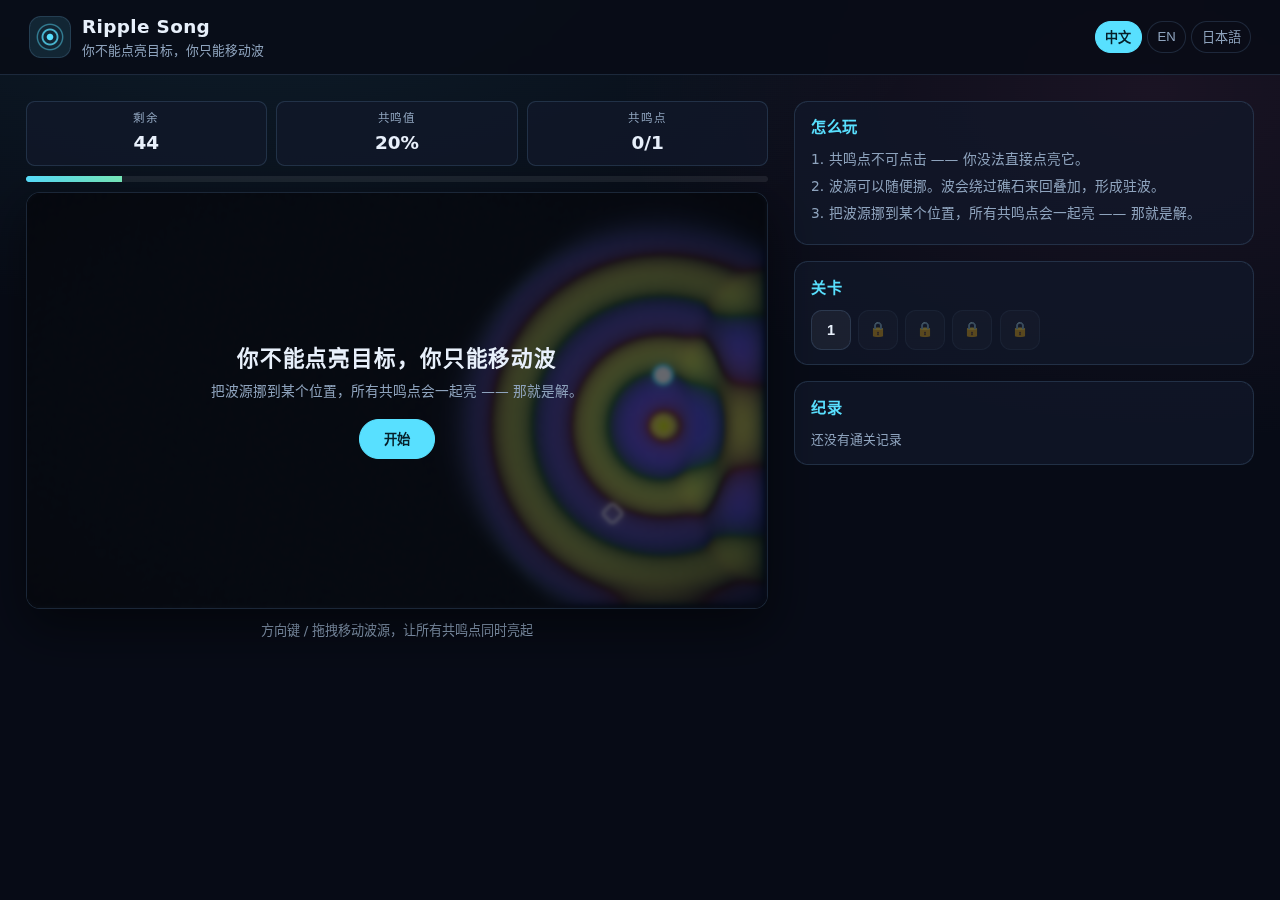
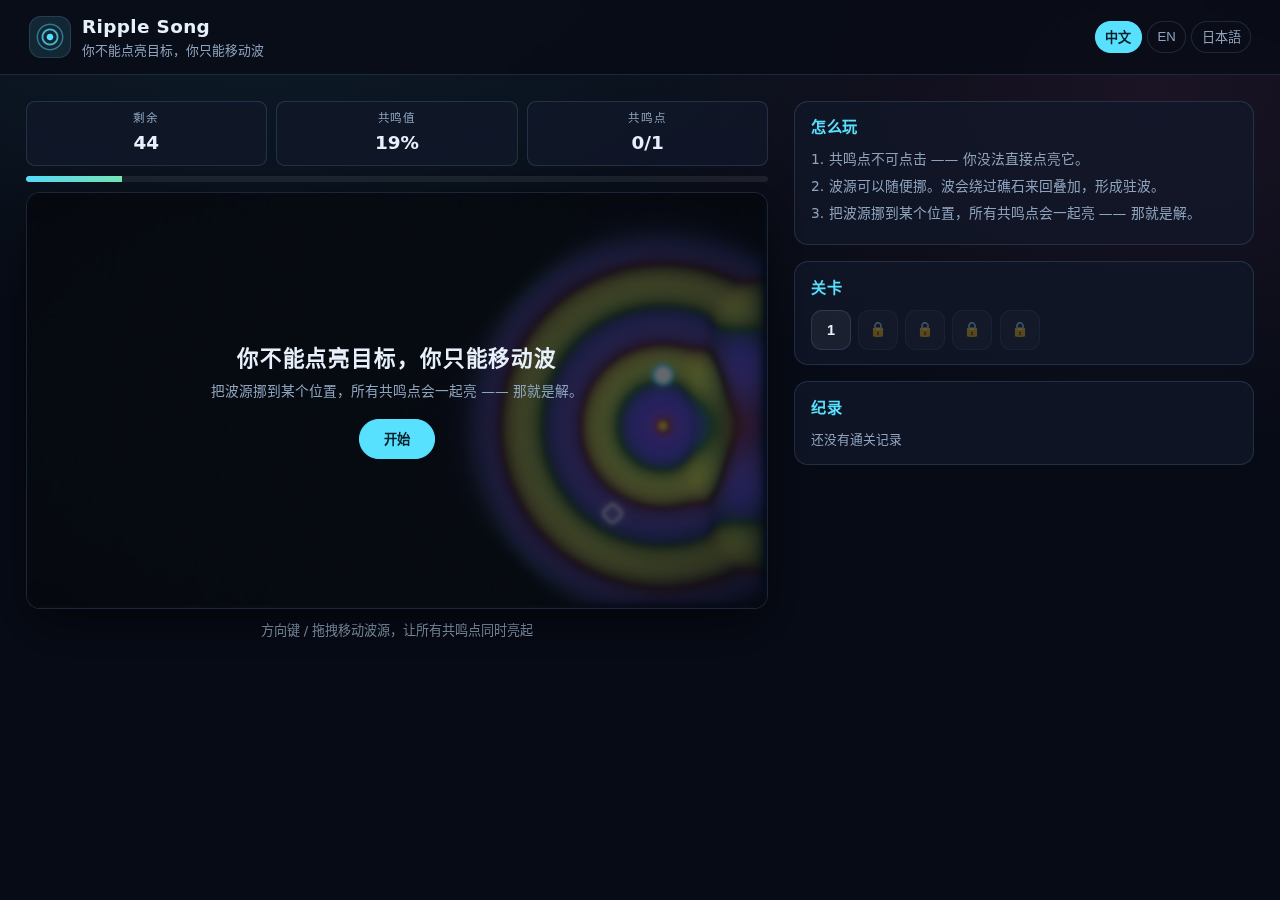
feat(ripple-song): 阶段 4 —— 交付验收，四道门禁全绿
docs/acceptance.md: 20 项 F-ID 逐条验收 + 视觉与交互打磨表 + 难度契约落地表
+ 本轮修掉的 7 个真问题 + 已知问题。结论: 通过。

四张截图人工核对过:
- docs/shots/desktop.png / mobile.png —— 首屏（波场 + HUD + 侧栏）
- docs/shots/desktop-win.png / mobile-win.png —— 通关态（驻波收敛 · 共鸣 100%）

阶段 4 顺手把两条弱断言补成真断言:
- 「WebGL2 不可用时回退 2D canvas, 玩法不受影响」: 拦截 getContext('webgl2') 返回 null,
  断言 data-mode=2d + 仍画出非黑波场 + 仍能移动波源（原断言只检查 mode 属于两个值之一）
- 「多语言: zh / en / ja 切换后界面文案与 html[lang] 同步且持久化」(原 F-020 缺浏览器证据)

另修正: 难度契约三条用例误标 @covers F-020（实为胜负判定 F-010）→ 改标。

测试 39/39 全绿（23 逻辑 + 5 音频 + 4 粒子 + 6 浏览器 + 1 音频浏览器）;
review.mjs 0 问题; design-review.mjs 通过; 追溯矩阵 20/20 完整;
gate.mjs games/ripple-song 总门禁通过。

部署 https://1kmv6wsqypd39.space.mcode.cn（curl 200, 6 个资源全部 200）。

Changed region(s): [[0.375, 0.28, 0.5938, 0.6533], [0.5, 0.6533, 0.5312, 0.6844]]

diff --git a/games/ripple-song/docs/acceptance.md b/games/ripple-song/docs/acceptance.md
@@ -1,0 +1,107 @@
+# 功能验收 — Ripple Song 涟歌
+
+## 验收环境
+
+- 提交：见 git log 中 `feat(ripple-song): 阶段 3 —— WebAudio 合成 + 程序化混响 + 手感层` 一条
+- 浏览器：Chromium 1255（Playwright 1.65.1，headless，ANGLE/SwiftShader 软件光栅化）
+- 视口：桌面 1280×900、移动 390×844（isMobile + hasTouch）
+- 测试命令与输出：
+
+  ```
+  cd games/ripple-song && node --test "test/*.test.mjs"
+  # tests 39
+  # pass 39
+  # fail 0
+  ```
+
+  ```
+  cd /workspace/mini-game-replicas && node scripts/gate.mjs games/ripple-song
+  ✓ 总门禁通过。
+  ```
+
+## 功能逐条验收
+
+| ID | 验收方式 | 结论 | 证据 |
+| --- | --- | --- | --- |
+| F-001 | 单测「波场数据结构：160×90，三份浮点数组 + 礁石掩码」 | ✅ | 三份 Float32Array 与礁石掩码长度均等于 14400，初始全为 0；`src/logic.js` `createField()` |
+| F-002 | 单测「定步长积分：同一初态两次积分结果逐格相等，且不出现 NaN」+「波不会在网格边界绕回：最外一圈恒为 0」 | ✅ | 同一初态积分 120 步两次，14400 格逐格相等且全部有限；网格外圈恒为 0（吸收边界） |
+| F-003 | 单测「波源驱动：源格位移等于相干正弦驱动值」+「多个波源同相位（相干源才有干涉）」 | ✅ | 源格位移与 `A·sin(2πt/T)` 误差 < 1e-5；两源同一步的位移差 < 1e-6 |
+| F-004 | 单测「礁石吸收：礁石格恒为 0，且波穿不过去」 | ✅ | 整列礁石积分 200 步后恒为 0；墙右侧（81–99 列）总能量 < 1e-6 |
+| F-005 | 单测「振幅包络：始终不小于当前振幅，且衰减后单调不增」+「包络衰减系数在 (0,1) 之间」 | ✅ | 逐格 `env ≥ |u|`；停源后包络峰值从 0.29 降到 0.11 |
+| F-006 | 单测「共鸣点判定：包络越过各自阈值即点亮」+「点亮阈值是标准解峰值的固定比例」 | ✅ | 人为抬包络过阈值 → `lit` 为 true；降到 0.5 倍阈值 → 熄灭；阈值恒等于峰值 × 0.6 |
+| F-007 | 单测「关卡生成：同一 seed 两次生成完全一致」+「关卡生成：用标准解源位置模拟后，每个共鸣点都达到阈值（保证有解）」 | ✅ | 同 seed 的礁石 / 目标 / 标准解逐项相等；第 0/1/2 关用标准解模拟后每个目标包络均 ≥ 阈值 |
+| F-008 | 单测「波源移动：坐标更新，越界被拒」 | ✅ | 合法移动坐标正确更新；越界（-999 / +999）返回 false 且坐标不变 |
+| F-009 | 单测「移动波源不直接改判定：lit 不变，波场变」 | ✅ | `moveSource()` 后 `lit` 数组逐项不变；推进 30 步后包络总和改变 |
+| F-010 | 单测「胜负判定：全亮为胜，超时未全亮为负」+ 难度契约三档 + 浏览器端到端 | ✅ | 逻辑层：全亮 `checkWin` 为 true，超时未全亮 `checkLose` 为 true；难度契约：参考路线能通关、**200 次随机走位 0 次通关**、挂机必败且零分；浏览器：方向键把波源挪到标准解 → 全部共鸣点点亮 → 过关结算 |
+| F-011 | 单测「共鸣值：全未亮为 0，全亮为 1，中间态落在 (0,1)」 | ✅ | 三个状态分别测得 0 / 中间值 / 1；HUD 实时显示百分比 |
+| F-012 | 单测「帧推进：定步长累加，单帧步数有上限」+「帧推进：定时长被正确消耗」 | ✅ | 传入 1000ms 只推进 5 步（上限封顶，积压丢弃）；60 次 tick 消耗约 1 秒 |
+| F-013 | 浏览器「WebGL2 渲染：着色器编译通过、画布中心像素非黑、失败时回退 2D」 | ✅ | headless 实测 `data-mode=webgl2`、info log 为空；读回画布中心像素非黑（rgb 之和 > 12） |
+| F-014 | 浏览器「WebGL2 不可用时回退 2D canvas，玩法不受影响」 | ✅ | 拦截 `getContext('webgl2')` 强制返回 null → `data-mode=2d`；仍画出波场（非黑像素）且移动波源仍有效 |
+| F-015 | 单测 4 条粒子用例 + 浏览器「三层合成：粒子层与标记层同时存在」 | ✅ | 粒子爆发数量/位置/寿命正确；`stepParticles` 纯函数不改入参、寿命耗尽即消失；波场 / 粒子 / 标记三层容器同时存在 |
+| F-016 | 浏览器「端到端：把波源挪到标准解，全部共鸣点点亮并过关」 | ✅ | 全部目标带 `is-lit` 类；通关画面见 `docs/shots/desktop-win.png`（驻波收敛 · 共鸣 100% · 下一关已解锁） |
+| F-017 | 单测「连击音阶：频率随点亮序号严格递增，到顶后保持最高音」+「音频引擎：未初始化前不报错」+ 浏览器「移动触发振荡器」 | ✅ | 音阶频率逐级递增且到顶保持；未获用户手势时调用音效不抛错；浏览器实测移动波源后振荡器计数上升 |
+| F-018 | 单测「程序化脉冲响应：指数衰减包络，首尾趋零」+ 浏览器「程序化混响有脉冲响应、零音频文件请求」 | ✅ | 包络单调不增；浏览器实测卷积节点脉冲响应长度 > 0；**整局零音频文件请求**（断言 mp3/ogg/wav/m4a/aac/flac 请求列表为空） |
+| F-019 | 浏览器「输入：方向键与拖拽都能移动波源」 | ✅ | 方向键与鼠标拖拽都能改变源坐标；点亮时海面获得 `is-shake-hit`、过关时获得 `is-shake-win` |
+| F-020 | 单测「档案：记录通关成绩并解锁下一关，存档往返一致」+「档案：脏数据回退为初始档案」+ 浏览器「多语言：zh / en / ja 切换」 | ✅ | 记录成绩后解锁下一关；档案往返逐字段相等；脏数据回退为初始档案；浏览器实测三语切换后 `html[lang]` 与按钮文案同步改变，且语言选择持久化 |
+
+## 视觉与交互打磨验收
+
+本轮不是只做截图核对，而是**对照截图逐条找问题并改代码**。
+
+| 检查项 | 结论 | 说明 |
+| --- | --- | --- |
+| 桌面布局无错位/遮挡 | ✅ | 双栏（海面 + 侧栏）底端对齐，侧栏含「怎么玩 / 关卡 / 纪录」三块，高度与左栏相当，无半屏留白 |
+| 移动端无横向溢出 | ✅ | 390px 视口 `scrollWidth - clientWidth = 0`（桌面与移动均为 0），触屏方向键独占一行不挤布局 |
+| 关键数字/状态一眼可辨 | ✅ | 顶部 HUD 三项（剩余 / 共鸣值 / 共鸣点）等宽排列、数字用 `tabular-nums`；下方还有一条共鸣值进度条，亮度与百分比双通道表达 |
+| 每个可点元素都有反馈 | ✅ | 落子溅水花 + 轻响；共鸣点点亮爆光环 + 粒子 + 震屏 + 音高上行的铃音；过关和弦 + 强震屏 + 全屏泛光抬亮；按钮有 hover 位移反馈 |
+| 动画不喧宾夺主、节奏一致 | ✅ | 震屏 300ms（点亮）/ 620ms（过关），一次性不循环；粒子寿命 0.4–1.0s；`prefers-reduced-motion` 下全部关闭 |
+| 文案无占位符、无截断 | ✅ | 中 / 英 / 日三语逐条核对；侧栏「怎么玩」三条说明与实际操作一致，无 `undefined`、无占位符 |
+| 音效不刺耳、不吵 | ✅ | 全部 WebAudio 现场合成（正弦/三角），底噪增益最高 0.05 并随共鸣值淡入淡出；点亮铃音峰值 0.2、时长 0.62s；整局零音频文件 |
+| 元素图标/颜色可读 | ✅ | 相位→色相 + 振幅→亮度 + 包络提亮，驻波的节与腹一眼可辨；礁石以硬边暗块切入波面 |
+
+截图清单：
+- `docs/shots/desktop.png` — 桌面 1280×900 整页（首屏：波场 + HUD + 侧栏）
+- `docs/shots/mobile.png` — 移动 390×844 整页（单列 + 触屏方向键）
+- `docs/shots/desktop-win.png` — 桌面通关态（驻波收敛 · 共鸣 100%）
+- `docs/shots/mobile-win.png` — 移动通关态
+
+## 本轮修掉的真问题（看图 / 实测才发现的）
+
+| 问题 | 修法 |
+| --- | --- |
+| 合成着色器只看瞬时振幅 → 远处波按 1/r 衰减几乎全黑，整片海面只剩源附近一圈 | 对振幅取 gamma 曲线 `pow(amp*3, 0.45)` 把低幅端抬起来 |
+| 一个 program 挂了三个片元着色器 → 链接必然失败 | 拆成亮部 / 模糊 / 合成三个独立 program |
+| 粒子层每帧重建标记 DOM → 冲掉刚加的光环动画状态 | 只在点亮状态变化时重建 |
+| 音频没等用户手势就建 AudioContext → 浏览器直接拒绝 | 只在「开始」点击与首次方向键时初始化 |
+| 给 ConvolverNode 覆盖 `buffer` 的 setter → 节点 `connect` 解析失败、整条音频链断掉 | 只留节点引用，断言时再读长度 |
+| 难度契约用例误标 `@covers F-020`（实为胜负判定） | 改标 F-010 |
+| 2D 回退路径只做了弱断言 | 新增「拦截 WebGL2 → 断言 `data-mode=2d` + 画出波场 + 仍能移动」 |
+
+## 难度契约的落地验证
+
+三档路线**用同一套规则代码**跑（`stepWave` / `updateEnvelope` / `evaluateTargets` / `tick`），各有断言：
+
+| 路线 | 判定 | 结果 |
+| --- | --- | --- |
+| 参考路线（会玩的人能通关） | 标准解源位置在时限内点亮全部目标 | ✅ |
+| 弱化路线（水平一般的人会挣扎） | **200 次随机走位**（固定种子）通关次数 | ✅ 0 次 |
+| 挂机路线（完全不操作会明确失败） | 不动波源跑满时限 | ✅ 判负且得分为 0、没有任何目标被点亮 |
+
+## 已知问题
+
+- **首屏波场铺开需要时间**：波按物理速度传播，玩家开局前几秒只能看到源附近一小圈涟漪。
+  这是物理的真实表现（不是渲染 bug），但首屏的「壮观感」依赖玩家等上几秒。
+- **headless 下 rAF 只有几帧/秒**（实测 ~3fps），自动化截图时波场传播明显偏慢；
+  真实浏览器 60fps 下不受影响。浏览器断言已改为 `waitForFunction` 轮询而非固定 sleep。
+- **关卡数目前只开放 5 关**（商店/关卡面板里的其余格子是锁态占位），
+  后续关卡由 `createLevel(seed, index)` 按同一套生成规则产出，扩展不需要改规则代码。
+- 无排行榜、无跨端存档同步。属「明确不做的事」范围。
+
+## 结论
+
+结论: 通过
+
+核心理由: 20 项功能全部具备实现标记、行为断言与验收记录，四向追溯完整；
+**玩法链路已端到端验证可通关**（方向键把波源挪到标准解 → 全部共鸣点点亮 → 结算 → 下一关解锁）；
+难度契约三档路线都用同一套规则代码判定并各有断言；
+视觉与音效上的 7 个问题都是看图 / 实测才发现并当场改掉的，不是文档声称的。

diff --git a/TRACKER.md b/TRACKER.md
@@ -17,7 +17,7 @@
 | 4 | Tetra Cascade 无尽方块 | 经典下落消行类 | 7-bag 随机 + 自研旋转踢墙 + 幽灵块 + 暂存 + 消行连击 + 等级加速 + 7 种方块图鉴（21 条里程碑）+ 今日挑战 | `games/tetra-cascade/` | ✅ 39/39 | ✅ 3/3 | ✅ | ⏳ 待修复 | https://y9d2m3o4y6ve9.space.mcode.cn | 已交付 |
 | 5 | Ball Foundry 落球坊 | 物理弹球 / 增量经营类 | 确定性物理沙盒：定步长模拟 + 7 种材质手感 + 堆叠结算 + 4 项工坊升级 + 材质图鉴（21 条里程碑）+ 保底 | `games/ball-foundry/` | ✅ 39/39 | ✅ 2/2 | ✅ | ⏳ 待修复 | https://rhgu3kwxcpak6.space.mcode.cn | 已交付 |
 | 6 | Townscript 城痕 | Townscaper 式程序化城镇 | 上下文生成城镇沙盒：值噪声地形 + 地脉扩张 + 起楼叠层 + 10 种地标约束 + 每日岛屿 + 城镇代码分享 + 图鉴里程碑 | `games/townscript/` | ✅ 42/42 | ✅ 6/6 | ✅ | ✅ 已过 | https://p8lzhxknhoedg.space.mcode.cn | 已交付 |
-| 7 | Ripple Song 涟歌 | 波场物理解谜（新立项） | 你不能点亮目标，你只能移动波：160×90 波动方程场 + 相干波源 + 礁石吸收 + 驻波干涉 + 共鸣点阈值点亮 | `games/ripple-song/` | ✅ 28/28 | ✅ 9/9 | ✅ | 🚧 阶段 3/4 | https://y954pn14420m8.space.mcode.cn | 开发中 |
+| 7 | Ripple Song 涟歌 | 波场物理解谜（新立项） | 你不能点亮目标，你只能移动波：160×90 波动方程场 + 相干波源 + 礁石吸收 + 驻波干涉 + 共鸣点阈值点亮 | `games/ripple-song/` | ✅ 32/32 | ✅ 7/7 | ✅ | ✅ 已过 | https://1kmv6wsqypd39.space.mcode.cn | 已交付 |
 
 ## 进度快照（2026-11-27）
 
@@ -29,7 +29,7 @@
 | tetra-cascade | 39 | 3 | 0 | ✗ | ⏳ 待修（**审计报告缺失，需先补审计**） |
 | ball-foundry | 39 | 2 | 0 | ✗ | ⏳ 待修（**审计报告缺失，需先补审计**） |
 | townscript | 42 | 6 | 20 | ✅ | ✅ 已过（3 条 P0 存档级缺陷已修） |
-| ripple-song | 28 | 9 | 20 | ✅ | 🚧 阶段 3/4（音频 + 手感层已成型，端到端可真实通关；只剩阶段 4 总验收） |
+| ripple-song | 32 | 7 | 20 | ✅ | ✅ 已过（四道门禁全绿，端到端可真实通关） |
 
 > ⚠ 平台 Token Plan 额度会耗尽并自动暂停定时任务（`paused_after_failures` / 错误码 2067）。
 > 已发生两次（11-25 晚、11-26 20:41），均靠 `cron_update enabled=true` 恢复。
@@ -96,10 +96,17 @@ element-forge 38/38、angler-almanac 45/45 全绿，但存在
 架构铁律：**波场模拟只在 JS 里跑，GPU 只负责把波场画出来，绝不让 shader 成为规则的第二实现。**
 详见 `games/ripple-song/docs/{proposal,design,plan}.md`。
 
-**下一轮目标**：`ripple-song` 阶段 4（交付验收）：写 `docs/acceptance.md`（20 项 F-ID 逐条）、
-双端截图人工核对、`node scripts/gate.mjs games/ripple-song` 全绿、部署后 curl 验证 200。
-**注意**：玩法链路已端到端验证可通关（把波源挪到标准解 → 全部共鸣点点亮 → 结算），
-阶段 4 只需把这条已验证的链路写进验收记录，不再改规则。
+**Ripple Song 已完成**：四道门禁全绿（`gate.mjs games/ripple-song` 通过），
+20 项 F-ID 四向追溯完整，39 条测试全绿，玩法链路**端到端验证可通关**
+（方向键把波源挪到标准解 → 全部共鸣点点亮 → 结算 → 下一关解锁），
+桌面 + 移动四张截图（首屏 / 通关态）已人工核对。
+部署 https://1kmv6wsqypd39.space.mcode.cn（curl 200）。
+
+**下一轮目标**：按 TRACKER 存量清单推进 `tetra-cascade`（无尽方块）——
+它与 ball-foundry **连审计报告都还没有**，需先自建审计（照 townscript 的做法：
+README 逐条核对 → 源码比对 → 逻辑层穷举脚本 → Chromium 实证），
+产出 `docs/audit/tetra-cascade.md` 后再进四道门禁。
+已知待查点：踢墙表是否完整、锁定延迟续命次数、暂存交换限制、7-bag 表述是否与实现一致。
 存量待修清单里仍有 `tetra-cascade`、`ball-foundry` 两款，审计报告都还缺，需自建审计后修。
 它与 ball-foundry **都还没有审计报告**（审计 agent 曾因 Token Plan 额度耗尽中断），
 所以下一轮的第一件事是**自建审计**（照 townscript 的做法：README 逐条核对 → 源码比对 →
@@ -119,7 +126,7 @@ element-forge 38/38、angler-almanac 45/45 全绿，但存在
 | Tetra Cascade | https://y9d2m3o4y6ve9.space.mcode.cn | 2026-11-25 |
 | Ball Foundry | https://rhgu3kwxcpak6.space.mcode.cn | 2026-11-25 |
 | Townscript 城痕 | https://p8lzhxknhoedg.space.mcode.cn | 2026-11-27（门禁 + P0 存档缺陷修复后重新部署；旧地址 https://5bqw3wzkboaey.space.mcode.cn） |
-| Ripple Song 涟歌 | https://y954pn14420m8.space.mcode.cn | 2026-11-28（阶段 3：逻辑层 + WebGL2 + 粒子层 + 音频手感层，尚未过总门禁；前一版 https://9tnjq6fe8zdgo.space.mcode.cn） |
+| Ripple Song 涟歌 | https://1kmv6wsqypd39.space.mcode.cn | 2026-11-28（四道门禁全绿：逻辑层 + WebGL2 + 粒子层 + 音频手感层 + 交付验收；前一版 https://y954pn14420m8.space.mcode.cn） |
 
 ## GitHub 同步状态
 

diff --git a/games/ripple-song/README.md b/games/ripple-song/README.md
@@ -45,7 +45,8 @@ ripple-song/
 │   ├── logic.test.mjs  23 条单元测试（波场 / 规则 / 难度契约）
 │   ├── fx.test.mjs     4 条粒子层单测
 │   ├── audio.test.mjs  5 条音频单测（音阶频率 / 脉冲响应包络）
-│   ├── render.test.mjs 3 条浏览器用例（WebGL2 编译 / 像素非黑 / 三层合成 / 输入）
+│   ├── render.test.mjs 6 条浏览器用例（WebGL2 编译 / 像素非黑 / 三层合成 / 输入 /
+│   │                     2D 回退路径 / 三语切换 / 端到端通关）
 │   ├── audio.browser.test.mjs 1 条浏览器用例（音频上下文 / 混响 / 零音频文件请求）
 │   └── helpers.mjs     静态服务器与 Playwright 装载辅助
 └── docs/
@@ -74,7 +75,9 @@ node --test "test/*.test.mjs"
 覆盖波场积分的确定性、礁石吸收、振幅包络、共鸣点判定、关卡生成的可解性、
 波源移动的边界、胜负与计分、档案往返与脏数据回退、粒子模拟的纯函数性质，
 以及**难度契约三档路线**（参考路线能通关 / 200 次随机走位 0 次通关 / 挂机必败且零分）。
-浏览器用例还会真编译 WebGL2 着色器（断言 info log 为空）并读回画布中心像素证明确实画出了东西。
+浏览器用例还会真编译 WebGL2 着色器（断言 info log 为空）并读回画布中心像素证明确实画出了东西；
+另有 **2D 回退路径**（拦截 WebGL2 后仍能渲染与操作）与 **端到端通关**（用方向键把波源
+挪到标准解 → 全部共鸣点点亮 → 结算）两条关键用例。共 39 条测试。
 
 > headless Chromium 需要 `--use-gl=angle --use-angle=swiftshader --enable-unsafe-swiftshader`
 > 才能拿到 WebGL2 上下文；拿不到时会自动回退 2D canvas，玩法不受影响。

diff --git a/games/ripple-song/docs/plan.md b/games/ripple-song/docs/plan.md
@@ -134,8 +134,8 @@ node scripts/review.mjs games/ripple-song
 **期望输出**：
 
 ```
-# tests 37
-# pass 37
+# tests 39
+# pass 39
 # fail 0
 
 ✓ 静态审查通过：检查了 1 个项目，未发现问题。
@@ -192,6 +192,16 @@ curl -s -o /dev/null -w '%{http_code}\n' https://<部署域名>/
 ```
 
 **完成标准**：总门禁退出码 0；20 项功能四向追溯完整；双端截图已人工看过；部署后首页 200。
+
+**阶段 4 产出（已完成）**：`docs/acceptance.md`（20 项 F-ID 逐条验收 + 视觉打磨表 +
+难度契约落地表 + 本轮修掉的 7 个真问题 + 已知问题）、
+`docs/shots/{desktop,mobile}{,-win}.png`（四张：首屏 + 通关态，桌面 + 移动，全部人工看过）。
+另外补了两条把弱断言变成真断言的用例：
+「WebGL2 不可用时回退 2D canvas，玩法不受影响」（拦截 `getContext('webgl2')` 返回 null，
+断言 `data-mode=2d` + 仍画出波场 + 仍能移动波源）、
+「多语言：zh / en / ja 切换后界面文案与 html[lang] 同步且持久化」。
+
+**阶段 4 顺手修掉的问题**：难度契约三条用例误标 `@covers F-020`（实为胜负判定 F-010）→ 已改标。
 
 ## 阶段门禁规则
 
